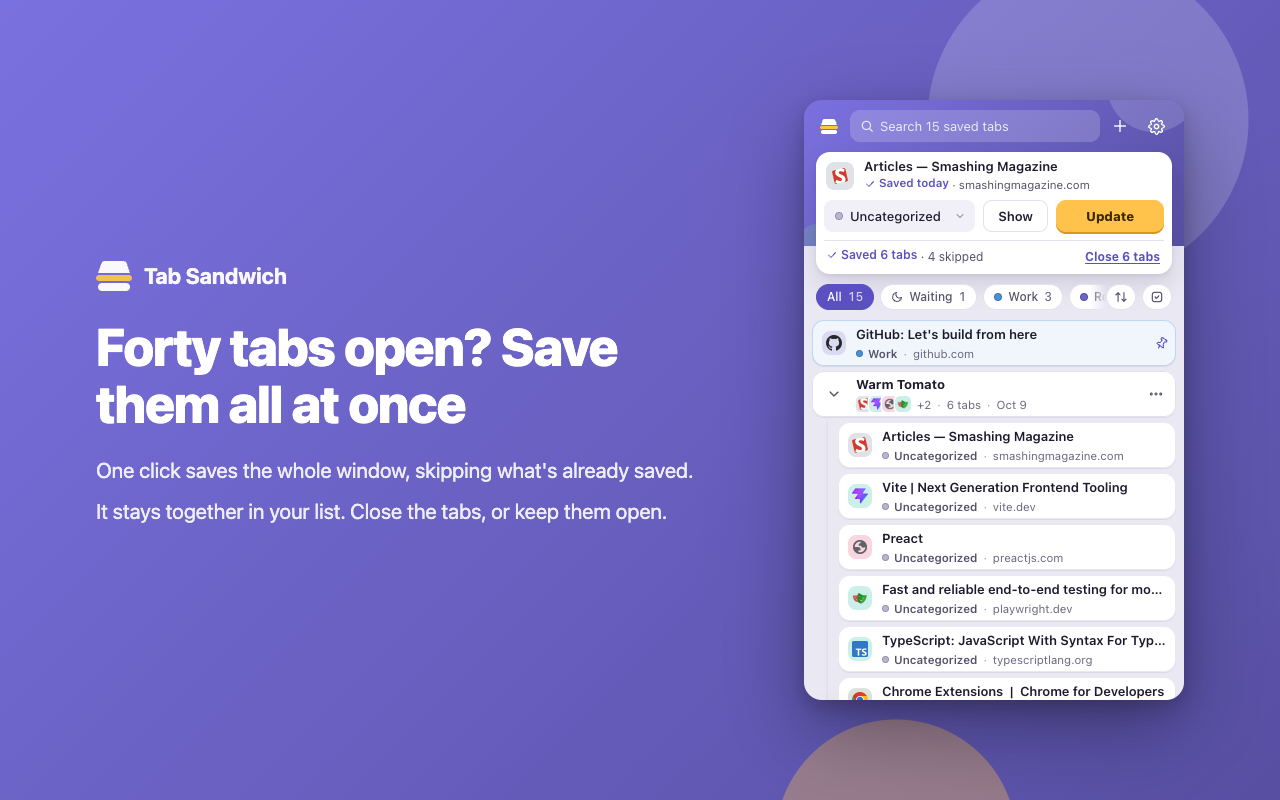
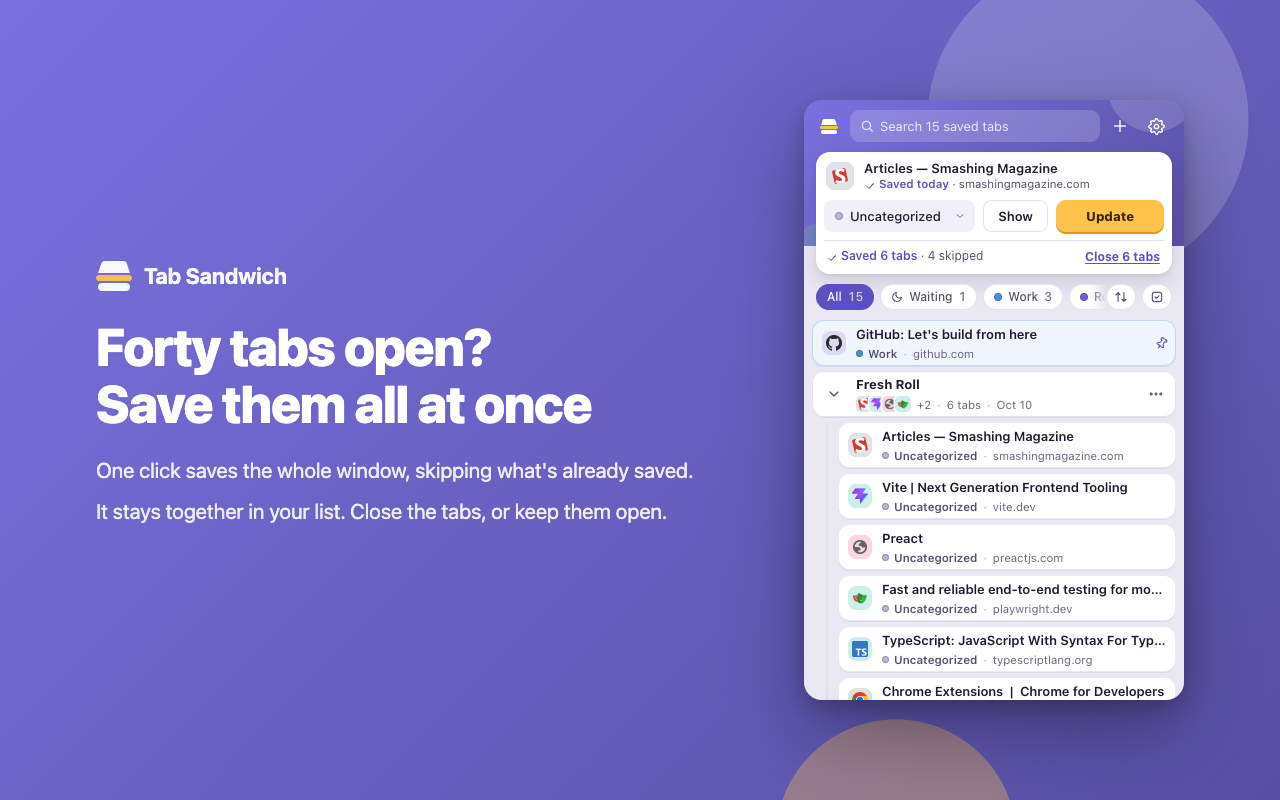
Release 3.3.1: Store screenshots, docs, version
The About screenshot showed no feature: screenshot 5 is now "Read it later,
or keep it for good" (the Waiting filter), and the privacy promise moves onto
screenshot 1. Headlines break into balanced lines. TESTING: section 22
(TC-279–282) and the cases whose behavior changed; PUBLISHING: 3.3.1 update
steps; README and CLAUDE.md follow. Version 3.3.1 (a patch: no What's new
note, nothing stored changes).

diff --git a/tests/store/store-assets.spec.ts b/tests/store/store-assets.spec.ts
@@ -2,7 +2,7 @@ import { readFileSync } from "node:fs";
 import type { Page } from "@playwright/test";
 import { test } from "../e2e/fixtures";
 import { expect } from "../e2e/fixtures";
-import { answerPermissionPrompt, openSettings, seedLibrary } from "../e2e/helpers";
+import { answerPermissionPrompt, seedLibrary } from "../e2e/helpers";
 
 const OUT = "store-assets";
 
@@ -16,6 +16,14 @@ const LIBRARY = [
     { title: "Lisbon – Travel guide at Wikivoyage", url: "https://en.wikivoyage.org/wiki/Lisbon", category: "Travel", daysAgo: 15, note: "for the May trip: day 2 is Belém" },
     { title: "BBC Food – Recipes", url: "https://www.bbc.co.uk/food", category: "Recipes", daysAgo: 2 },
     { title: "Stack Overflow", url: "https://stackoverflow.com/", daysAgo: 1 },
+];
+/** Added for the Read later shot: more reading that's been waiting, and a few tabs already archived. */
+const WAITING_EXTRAS = [
+    { title: "web.dev: Learn CSS", url: "https://web.dev/learn/css", category: "Reading", daysAgo: 34 },
+    { title: "CSS-Tricks: A Complete Guide to Grid", url: "https://css-tricks.com/snippets/css/complete-guide-grid/", category: "Reading", daysAgo: 18 },
+    { title: "A List Apart", url: "https://alistapart.com/", category: "Reading", daysAgo: 23 },
+    { title: "Google Flights", url: "https://www.google.com/travel/flights", category: "Travel", daysAgo: 40, archivedDaysAgo: 6 },
+    { title: "The Verge", url: "https://www.theverge.com/", category: "Reading", daysAgo: 30, archivedDaysAgo: 2 },
 ];
 const SETTINGS = {
     categories: ["Work", "Reading", "Travel", "Recipes"],
@@ -46,7 +54,7 @@ async function compose(page: Page, file: string, popupPng: Buffer, headline: str
     await page.setContent(`<!doctype html><html><body style="margin:0;width:1280px;height:800px;overflow:hidden;background:${BACKGROUNDS[theme]};font-family:-apple-system,BlinkMacSystemFont,'Segoe UI',system-ui,sans-serif;color:#fff;display:flex;align-items:center;gap:72px;padding:0 96px;box-sizing:border-box">
       <div style="flex:1;min-width:0">
         ${brand}
-        <h1 style="margin:0 0 24px;font-size:${withIcon ? 46 : 52}px;line-height:1.08;font-weight:800;letter-spacing:-.02em">${headline}</h1>
+        <h1 style="margin:0 0 24px;font-size:${withIcon ? 46 : 52}px;line-height:1.08;font-weight:800;letter-spacing:-.02em;text-wrap:balance">${headline}</h1>
         ${lines.map((l) => `<p style="margin:0 0 12px;font-size:21px;line-height:1.4;opacity:.88">${l}</p>`).join("")}
       </div>
       <img src="${img}" width="380" height="600" style="border-radius:18px;box-shadow:0 30px 80px rgba(0,0,0,.35),0 8px 20px rgba(0,0,0,.2);flex-shrink:0">
@@ -70,7 +78,7 @@ test("Chrome Web Store screenshots", async ({ context, popup }) => {
     test.skip(!process.env.TS_STORE_SCREENSHOTS, "Run through `pnpm store:screenshots`.");
     // Visit each sample site once, so Chrome's own icon cache has its icon (as it would for a real user).
     const visitor = await context.newPage();
-    for (const { url } of [...LIBRARY, { url: CURRENT_PAGE }, ...WINDOW_PAGES.map((url) => ({ url }))]) {
+    for (const { url } of [...LIBRARY, ...WAITING_EXTRAS, { url: CURRENT_PAGE }, ...WINDOW_PAGES.map((url) => ({ url }))]) {
         await visitor.goto(url, { waitUntil: "load", timeout: 30_000 }).catch(() => undefined);
         await visitor.waitForTimeout(800);
     }
@@ -78,9 +86,9 @@ test("Chrome Web Store screenshots", async ({ context, popup }) => {
 
     await popup.setViewportSize({ width: 380, height: 600 });
     const canvas = await context.newPage();
-    const shot = async (theme: "light" | "dark", prepare: () => Promise<void>) => {
+    const shot = async (theme: "light" | "dark", prepare: () => Promise<void>, library: typeof LIBRARY = LIBRARY) => {
         await popup.emulateMedia({ colorScheme: theme, reducedMotion: "reduce" });
-        await seedLibrary(popup, LIBRARY, SETTINGS);
+        await seedLibrary(popup, library, SETTINGS);
         const opened = context.waitForEvent("page");
         await popup.evaluate((u) => chrome.tabs.create({ url: u, active: true }), CURRENT_PAGE);
         await (await opened).waitForLoadState("load");
@@ -93,7 +101,8 @@ test("Chrome Web Store screenshots", async ({ context, popup }) => {
 
     await compose(canvas, "screenshot-1-main-list.png", await shot("light", async () => {}), "Save the tab you're on, in one click", [
         "Pick a category as you save — it suggests one.",
-        "Pin favorites, add a note, archive the rest."
+        "Pin favorites, add a note, archive the rest.",
+        "Stored only in your browser. No account, no tracking."
     ], "light", true);
 
     // A window full of tabs, saved in one click (Chrome's permission prompt answered "Allow"),
@@ -132,7 +141,13 @@ test("Chrome Web Store screenshots", async ({ context, popup }) => {
         await popup.getByRole("textbox", { name: "Search saved tabs" }).fill("news");
     }), "Find any saved tab in a keystroke", ["Search matches titles, sites, categories and notes.", "Sort, select many, and never touch the mouse."], "light");
 
-    await compose(canvas, "screenshot-5-private.png", await shot("dark", async () => {
-        await openSettings(popup, "About");
-    }), "Your tabs stay in your browser", ["No account, no server, no tracking.", "Back up to a file whenever you like."], "dark");
+    // Read later or keep: the Waiting filter (Reading ages, the other categories are kept), with
+    // the archive's pill beside it.
+    await compose(canvas, "screenshot-5-read-later.png", await shot("dark", async () => {
+        await popup.getByRole("button", { name: /^Waiting/ }).click();
+        await popup.mouse.move(0, 599);
+    }, [...LIBRARY, ...WAITING_EXTRAS] as typeof LIBRARY), "Read it later, or keep it for good", [
+        "Saved to read? It shows as Waiting after a week.",
+        "Everything else is kept. Done with a tab? Archive it — out of the way, never lost."
+    ], "dark");
 });

diff --git a/TESTING.md b/TESTING.md
@@ -26,7 +26,7 @@ Run on the build being released (`dist/`, or the release zip unpacked), about 10
 5. Shortcut display and the **Customize** link (TC-070, TC-071).
 6. Glance at every screen in both themes on your own computer (TC-193): the approved screenshots are Linux renders, so fonts on a Mac or Windows PC look slightly different — check nothing is cut off or crowded.
 7. Save all tabs in a real window: Chrome's permission prompt, allowed and (on another profile) denied (TC-233); saved windows in real Chrome: open all in a new window, drag tabs in, out and around (TC-245).
-8. Update in place from the previous release on the same profile (TC-256) — always, and especially when the release upgrades stored data (3.2 did: saved windows; 3.3 does: which categories age).
+8. Update in place from the previous release on the same profile (TC-256) — always, and especially when the release upgrades stored data (3.2 did: saved windows; 3.3 did: which categories age; 3.3.1 changes nothing stored).
 9. One-color icons (GitHub's, Chrome's gray globe) in dark mode on your real profile (TC-258).
 10. Anything new in this release that isn't marked **[auto]** yet.
 
@@ -147,12 +147,12 @@ Each case: **ID**, **Preconditions**, **Steps**, **Expected Result**. Priority: 
 **TC-034 — Removing an unused category (P1)** **[auto]**
 - Preconditions: a category with no tabs assigned to it.
 - Steps: Settings → **Categories** → hover the category → click its trash icon ("Remove …").
-- Expected: Category removed from the list, from all category selects, and from filter pills.
+- Expected: Removed at once, without asking: gone from the list, from all category selects, and from filter pills. The toast says "Removed …" with **Undo**. (Removing the category the main list is filtered by leaves the list on All.)
 
-**TC-035 — Removing an in-use category is blocked (P1)** **[auto]**
-- Preconditions: a category assigned to at least one tab.
-- Steps: Settings → **Categories** → hover the category → click its trash icon.
-- Expected: Not removed. A message floats just under that category ("In use — reassign its tabs first."), without moving the rows, and clears after ~3s. The trash icon is visually muted but remains clickable.
+**TC-035 — Removing an in-use category asks first; its tabs become Uncategorized (P1)** **[auto]**
+- Preconditions: a category assigned to at least one tab (and, for the last step, one archived tab too).
+- Steps: Settings → **Categories** → hover the category → click its trash icon. Press Escape. Click the trash icon again, then **Remove**. Then **Undo**.
+- Expected: The row turns into the question "Remove …?" with "Its tab becomes Uncategorized" (or "Its N tabs become…", "N tabs (M archived) become…"), **Remove** (focused) and ✕, at the row's own height: no row moves. Escape or ✕ puts the row back, focus on its trash icon. **Remove** removes it; its tabs, archived ones included, are now Uncategorized (stored with no category), and focus moves to the row that took its place. "Removed …" with **Undo**, which brings back the category in its place with its color and ☾, and its tabs in it (a tab you moved elsewhere in the meantime stays there).
 
 **TC-036 — "Uncategorized" cannot be removed or renamed (P1)**
 - Steps: Inspect the Settings category list.
@@ -166,9 +166,9 @@ Each case: **ID**, **Preconditions**, **Steps**, **Expected Result**. Priority: 
 - Steps: Save a tab without assigning a category.
 - Expected: Row background is plain white (no colored tint), with a light grey outline and dot; the "Uncategorized" pill has the same grey dot.
 
-**TC-039 — Category-in-use status stays fresh across navigation (P2)**
-- Steps: In Settings, attempt to remove an in-use category (see the blocked message) → click **Back** → reassign that tab's category away from it elsewhere → reopen Settings.
-- Expected: The category now shows as removable (no stale "in use" state), and the old message is gone.
+**TC-039 — Whether removing asks first stays fresh across navigation (P2)**
+- Steps: In Settings, click remove on an in-use category (it asks) → ✕ → click **Back** → move that tab to another category → reopen Settings → click remove again.
+- Expected: Now it's removed at once, without asking (the count is current, not left over from before).
 
 ---
 
@@ -257,10 +257,10 @@ Since 3.3 only tabs in the categories whose moon is lit in Settings › Categori
 
 **TC-063 — Defaults on a fresh install (P2)**
 - Steps: Clear storage, reopen popup, check Settings.
-- Expected: Settings › Categories: the days field under the list reads 7; the ☾ is lit on Reading and Uncategorized, dim on the others.
+- Expected: Settings › Categories: the days field above the list reads 7; the ☾ is lit on Reading and Uncategorized, dim on the others.
 
 **TC-064 — Changing the day threshold updates badges live (P2)** **[auto]**
-- Steps: In Settings › Categories, change the days field under the list to a smaller/larger value (press Enter or click away).
+- Steps: In Settings › Categories, change the days field above the list to a smaller/larger value (press Enter or click away).
 - Expected: Badges and the Waiting pill count update; a value outside 1–365 is corrected to the nearest limit.
 
 ---
@@ -309,7 +309,7 @@ Since 3.3 only tabs in the categories whose moon is lit in Settings › Categori
 - Expected: All operable via Tab/Shift+Tab/Enter/Space; no dead ends.
 
 **TC-091 — Full keyboard pass: filter/edit/delete (P1)**
-- Steps: Tab to a category pill and the Waiting pill and activate each; Tab into the list (it's one stop: the current row's title, then its pin, edit and delete icons) and activate each; use the list's own keys too (TC-220 – TC-226).
+- Steps: Tab to a category pill and the Waiting pill and activate each; Tab into the list (it's one stop: the current row's title, then its edit, archive and pin icons) and activate each; use the list's own keys too (TC-220 – TC-226).
 - Expected: All operable via keyboard; edit mode's Save/Cancel reachable and usable, Escape cancels.
 
 **TC-092 — Full keyboard pass: Settings (P1)**
@@ -781,7 +781,7 @@ Restore it afterward with `chrome.storage.local.set = __origSet;` before continu
 
 **TC-220 — Arrow keys move through the list (P1)** **[auto]**
 - Steps: In the search box press ↓; then ↓, ↑, Home, End. Then Tab.
-- Expected: ↓ from search lands on the first row; arrows, Home and End move between rows (stopping at the ends), with a purple outline on the current row and its Edit and Delete showing. The list is one Tab stop: Tab goes to the current row's Edit, its Delete, then on past the list.
+- Expected: ↓ from search lands on the first row; arrows, Home and End move between rows (stopping at the ends), with a purple outline on the current row and its Edit, Archive and Pin showing. The list is one Tab stop: Tab goes to the current row's Edit, its Archive, its Pin, then on past the list.
 
 **TC-221 — Enter opens, E edits (P1)** **[auto]**
 - Steps: On a row press Enter. Then E, Escape. Then E, change the title, Enter.
@@ -930,9 +930,9 @@ Restore it afterward with `chrome.storage.local.set = __origSet;` before continu
 - Expected: Space picks and unpicks the row (screen readers hear a checkbox, checked or not); arrows move as usual; E and Delete do nothing while selecting; → and ← still open and close windows.
 
 **TC-256 — Updating an existing install keeps everything (P1, release gate)**
-- Preconditions: The previous release (3.2.0's zip from GitHub Releases) loaded unpacked, with a few saved tabs in several categories (some saved 10+ days ago, in Reading and Uncategorized), a saved window, a custom category and color, a theme and a sort chosen, and the "What's new" note dismissed.
+- Preconditions: The previous release (for 3.3.1: 3.3.0's zip from GitHub Releases) loaded unpacked, with a few saved tabs in several categories (some saved 10+ days ago, in Reading and Uncategorized), a saved window, a custom category and color, a theme and a sort chosen, and the "What's new" note dismissed.
 - Steps: Replace that folder's contents with this release's `dist/` (or the release zip unpacked) and press **Reload** on the extension in `chrome://extensions`. Open the popup.
-- Expected: Every tab, window, category, color, theme and sort is as it was; "New in 3.3" shows once. Only Uncategorized's old tabs show as Waiting (Reading's no longer do: in Settings › Categories only Uncategorized's ☾ is lit — or none, if "Outdated tabs" was off). Export a backup, import it with **Replace all**, and Undo: all of it works. (Behind the scenes the stored data was upgraded to version 3, with a backup copy; the robot tests cover the upgrade itself (TC-184, TC-259), but not an existing install updating in place.)
+- Expected: Every tab, window, category, color, theme and sort is as it was. From 3.3.0 to 3.3.1: no "What's new" note (a patch release has none), every ☾ as it was. From 3.2.x: "New in 3.3" shows once. Only Uncategorized's old tabs show as Waiting (Reading's no longer do: in Settings › Categories only Uncategorized's ☾ is lit — or none, if "Outdated tabs" was off). Export a backup, import it with **Replace all**, and Undo: all of it works. (Behind the scenes the stored data was upgraded to version 3, with a backup copy; the robot tests cover the upgrade itself (TC-184, TC-259), but not an existing install updating in place.)
 
 ## 21. Stay Organized (v3.3)
 
@@ -949,7 +949,7 @@ Restore it afterward with `chrome.storage.local.set = __origSet;` before continu
 **TC-259 — Kept and waiting categories (P1)** **[auto]**
 - Preconditions: tabs saved 10–30 days ago in Work, Reading and Uncategorized; days set to 7.
 - Steps: Look at the list; open Settings › Categories; click Reading's ☾ (dims) and Work's (lights); hover each to read what it means; go Back.
-- Expected: At first only the Reading and Uncategorized tabs have the ☾ age badge and are counted in "Waiting (N)"; Work's 30-day-old tab has neither. After the change Work's tab is waiting and Reading's isn't. A lit moon's tooltip says "Its tabs show as waiting after 7 days", a dim one "Kept: its tabs never show as waiting". Uncategorized has its own last row with only the ☾. A category added later starts kept (☾ dim); renaming a category keeps its ☾. Updating from 3.2: every category is kept except Uncategorized (none at all if "Outdated tabs" was switched off), checked by the robot tests on stored 3.2 data.
+- Expected: At first only the Reading and Uncategorized tabs have the ☾ age badge and are counted in "Waiting (N)"; Work's 30-day-old tab has neither. After the change Work's tab is waiting and Reading's isn't. A lit moon's tooltip says "Its tabs show as waiting after 7 days", a dim one "Kept: its tabs never show as waiting". Uncategorized has its own last row with only the ☾. The days field, and under it the line explaining the moon, sit above the list, so a long list never hides them. A category added later starts kept (☾ dim); renaming a category keeps its ☾. Updating from 3.2: every category is kept except Uncategorized (none at all if "Outdated tabs" was switched off), checked by the robot tests on stored 3.2 data.
 
 **TC-260 — Pin a tab (P1)** **[auto]**
 - Steps: Hover a row (an old one in an aging category, e.g. Reading) and click its pin; pin a second tab; then click the first one's pin again.
@@ -981,8 +981,8 @@ Restore it afterward with `chrome.storage.local.set = __origSet;` before continu
 - Expected: All shows "Everything's in the archive" with **Show the archive** (not the first-run welcome); the filter row stays, with the Archived pill.
 
 **TC-267 — A category only the archive uses (P2)** **[auto]**
-- Steps: Settings › Categories: look at a category whose only tabs are archived, and click its remove button.
-- Expected: Its count says 0 tabs (counted as the list shows them); removing it is refused with "Tabs in your archive still use it — delete them there first."
+- Steps: Settings › Categories: look at a category whose only tabs are archived, and click its remove button; then **Remove**.
+- Expected: Its count says 0 tabs (counted as the list shows them), but removing it still asks: "Its archived tab becomes Uncategorized" (or "Its N archived tabs…"). After **Remove** those tabs stay in the archive, now Uncategorized.
 
 **TC-268 — An archived page on the save card and in the + form (P2)** **[auto]**
 - Steps: Open a page whose saved copy is archived; click **Restore** on the save card. Archive it again and click **Update** instead, then **Undo**. Then type its link into the + form and **Add**.
@@ -1029,3 +1029,21 @@ Restore it afterward with `chrome.storage.local.set = __origSet;` before continu
 **TC-278 — The + form suggests (P2)** **[auto]**
 - Steps: Open **+**, type a link from a site you've saved before, Tab out of the field; Add.
 - Expected: The picker moves to the suggestion, with the sparkle; Add saves it there. Pressing Enter straight from the URL field applies the suggestion too; a category picked by hand is never changed.
+
+## 22. Polish (v3.3.1)
+
+**TC-279 — A row's buttons: Pin last, and gone once the mouse leaves (P1)** **[auto]**
+- Steps: Hover a pinned row (its pin shows at the right end); click where the pin was. Pin another tab with the mouse, then move the pointer off the list. Then reach a row with ↓ from search.
+- Expected: Hovered, the row's buttons read Edit · Archive · Pin, so Unpin sits exactly where the pin mark was (never Archive). After a click with the mouse, the row stops showing its buttons as soon as the pointer leaves, though the button keeps focus. Reached with the keyboard, a row shows its buttons as before. The same goes for a category's buttons in Settings.
+
+**TC-280 — The Undo toast never covers the last row (P1)** **[auto]**
+- Steps: With a short list (no scrolling), archive a row; in Archived, delete one of two tabs for good; in Settings › Categories, remove a category.
+- Expected: While the toast shows, the popup grows by the toast's height (or, at its full height, the list gets that much shorter), so the last row stays visible above the toast; when the toast goes, the popup is back to its size. (Try it by hand too: the shrink when the toast leaves shouldn't feel jumpy.)
+
+**TC-281 — "Saved …" lines up with the site's name (P3)** **[auto]**
+- Steps: Open the popup on a page that's already saved; then on one whose saved copy is archived.
+- Expected: "✓ Saved N days ago" and "· site" sit on one baseline (approved screenshots: already-saved-light/dark); so do "In your archive" and the site (check by eye).
+
+**TC-282 — Editing a tab to Uncategorized (P2)** **[auto]**
+- Steps: Edit a tab in a category, pick Uncategorized, Save. Then open the popup on a new page from that site.
+- Expected: The tab shows as Uncategorized (stored with no category, like any other uncategorized tab), and it doesn't make Uncategorized a suggestion: the picker shows no sparkle on Uncategorized. Tabs edited this way before 3.3.1 don't count as suggestions either (logic-tested).

diff --git a/CLAUDE.md b/CLAUDE.md
@@ -28,7 +28,7 @@ src/
   types.ts              SavedTab, TabGroup (a saved window), Settings, ThemeChoice, SortOrder
   storage/
     chromeStorage.ts     chrome.storage.local wrappers, DEFAULT_SETTINGS, StorageWriteError on a rejected write;
-                            tabs and saved windows written together in one write when a change touches both;
+                            tabs and saved windows (or tabs and settings) written together in one write when a change touches both;
                             the last "What's new" version seen, since when opens are counted and the cleanup tip's
                             "Not now" date — kept apart from Settings so backups can't revive them
     migration.ts          one-time legacy-localStorage → chrome.storage.local migration
@@ -40,7 +40,8 @@ src/
     TabRepository.ts      add (one or many, optionally as a saved window)/edit/delete (one or many)/restore/reorder saved tabs,
                            move into or out of a saved window, move many into a category (each with its Undo), refresh from the page (+ its undo), pin/unpin, archive/restore (one or many), notes (tidyNote), counting opens (recordOpen), duplicate detection,
                            ids are crypto.randomUUID() (never derived from Date.now())
-    CategoryRepository.ts add/rename/remove/reorder categories, color palette, "Uncategorized" sentinel
+    CategoryRepository.ts add/rename/remove/reorder categories, color palette, "Uncategorized" sentinel; removing one
+                            releases its tabs (archived too) to Uncategorized, restoreCategory is its Undo
     GroupRepository.ts    saved windows: rename, open/closed, break apart (+ Undo); archiving one is archiving its tabs
     windowSave.ts          "Save all tabs in this window": which open tabs are new, what's skipped and why,
                             which tabs "Close" may close — pure
@@ -79,7 +80,8 @@ src/
     SiteIcon.tsx            a site's icon from Chrome's local cache, on a tinted first-letter tile;
                              a one-color icon that would vanish on the theme's tile is flipped (util/iconInk.ts)
     CategoryPicker.tsx      native <select> with the chosen category's color dot (and a sparkle while it's a suggestion)
-    Toast.tsx / toastStore.ts  the one bottom toast (Undo or error); a tiny store any screen can call
+    Toast.tsx / toastStore.ts  the one bottom toast (Undo or error); a tiny store any screen can call; ToastSpace makes
+                             room for it at the end of each screen while it shows, so it never covers the last row
     main/                   the main screen
       App.tsx               root of the whole popup ("/" and Ctrl/⌘+Z work anywhere on its main screen): loads the library, owns filter/search/highlight
                              and which screen shows; the main screen is hidden (not unmounted) while
@@ -103,7 +105,8 @@ src/
                              (count, Select all, Move to…, Archive, ✕; on Archived: Restore, Delete for good) at the same height, so the popup never resizes
       EmptyStates.tsx       the first-run welcome and tips, "no saved tabs match" (offering the archive when it has a match),
                              "everything's in the archive", and the "What's new" note
-      TabList.tsx / TabRow.tsx  the list: tinted, outlined rows; edit form; drag to reorder; entrance motion;
+      TabList.tsx / TabRow.tsx  the list: tinted, outlined rows (buttons Edit · Archive · Pin on hover or keyboard focus,
+                             Pin last so it takes the pin mark's place); edit form; drag to reorder; entrance motion;
                              the list's keys (arrows, Enter, E, P to pin, Delete, Alt+arrows to move, → ← for windows, Space to pick
                              while selecting, Escape), one Tab stop; rows become checkboxes while selecting
       GroupRow.tsx          a saved window's row (a small stack): opens to show its tabs; ⋯ menu; rename in place
@@ -114,9 +117,10 @@ src/
       SettingsScreen.tsx    header with Back, the tab bar, the panel; opens at least as tall as the main
                              screen so the popup window doesn't resize
       GeneralTab.tsx        Light/Dark/System, keyboard shortcut and the list's keys, storage meter
-      CategoriesTab.tsx     add, rename (click the name), move, remove, drag; the ☾ on each row (its tabs age
-                             and show as Waiting, or are kept), Uncategorized's own row (☾ only), the days
-                             field under the list; color strip and messages float over the row so nothing shifts
+      CategoriesTab.tsx     add, rename (click the name), move, remove (in use: asks in the row first; Undo from the toast),
+                             drag; the days field and the moon's legend above the list; the ☾ on each row (its tabs age
+                             and show as Waiting, or are kept), Uncategorized's own row (☾ only); color strip, question
+                             and messages stay within or float over the row so nothing shifts
       BackupTab.tsx         export, import with Merge / Replace all / Cancel, Undo from the toast
       AboutTab.tsx          version, local-only promise, privacy policy and source links
   vite-env.d.ts             types for non-code imports, e.g. *.module.css

diff --git a/PUBLISHING.md b/PUBLISHING.md
@@ -76,13 +76,13 @@ Read later, or keep: only the categories you choose ever nag you about old tabs.
 
 Upload all five from `store-assets/`, in this order (each exactly 1280×800, as the Store requires). Each shows the popup next to a headline on the brand's purple background; the first (main) one also carries the icon, large (`branding/icon.svg`):
 
-1. `screenshot-1-main-list.png` — "Save the tab you're on, in one click": the main list (a pinned tab, a note) and save card
+1. `screenshot-1-main-list.png` — "Save the tab you're on, in one click": the main list (a pinned tab, a note) and save card; its last line carries the privacy promise ("Stored only in your browser. No account, no tracking.")
 2. `screenshot-2-whole-window.png` — "Forty tabs open? Save them all at once": a window just saved, open as a saved window, with "Close N tabs" on offer
 3. `screenshot-3-dark-mode.png` — "Easy on the eyes, day or night": the list in dark mode
 4. `screenshot-4-search.png` — "Find any saved tab in a keystroke": search with highlighted matches
-5. `screenshot-5-private.png` — "Your tabs stay in your browser": Settings › About in dark mode
+5. `screenshot-5-read-later.png` — "Read it later, or keep it for good": the Waiting filter in dark mode, with "Archive all N waiting tabs"
 
-(Since 3.2 the categories screenshot is gone to make room for saving a whole window; the main list still shows categories.)
+(Since 3.2 the categories screenshot is gone to make room for saving a whole window; the main list still shows categories. Since 3.3.1 the About screenshot is gone too: it showed no feature, so read later / keep has its place, and the privacy promise moved onto the first screenshot.)
 
 They're rendered from the built extension, not edited by hand: `pnpm build && pnpm store:screenshots` (on a Mac, with network access — it visits each sample site once so the rows show real site icons). Re-run it whenever the look changes, and check the pictures before uploading: they're public.
 
@@ -133,6 +133,7 @@ Once the listing exists, publishing a new version doesn't repeat Steps 0/2 (acco
 2. Tag and push (`git tag -a vX.Y.Z -m "..."`, `git push origin vX.Y.Z`) — CI builds the new zip.
 3. In the Developer Dashboard, open the existing Tab Sandwich item → **Package** tab → upload the new zip.
 4. Update the description/screenshots only if something user-facing actually changed (3.2.0 did: paste the summary and detailed description above, including its "New in 3.2" paragraph, and replace all five screenshots — delete the old ones first, since two were renamed — re-rendered with `pnpm build && pnpm store:screenshots` after the version bump). The Store has no per-version notes field; the full notes go in the GitHub release.
+   - 3.3.1 keeps the description as it is but replaces all five screenshots (delete the old ones first: `screenshot-5-private.png` is gone, `screenshot-5-read-later.png` takes its place; screenshot 1 gains the privacy line, and every headline now breaks into balanced lines). No permission change, nothing new stored: **Privacy practices** stays as it is.
    - 3.3.0 changes the description (paste it again, with its "New in 3.3" paragraph) and all five screenshots (same names; re-render after the version bump). It adds no permission and sends nothing anywhere: the new data (pins, archive, notes, when a tab was last opened from Tab Sandwich) stays on the device like the rest, so the **Privacy practices** answers stay as they are; `PRIVACY.md` lists it.
    - 3.2.0 adds the optional `tabs` permission: in the **Privacy practices** tab, add its justification (Step 3 above). Being optional, it's asked for only when someone first saves a whole window, so updating doesn't disable the extension for existing users.
    - A new icon (3.1.0 has one) normally comes from the uploaded zip. If the **Store listing** tab also has its own 128×128 store icon field, upload `images/icon-128.png` there too, or the listing keeps the old one.

diff --git a/README.md b/README.md
@@ -17,7 +17,7 @@ Data is stored locally via `chrome.storage.local` — nothing leaves your browse
 - **Add a link manually** — for anything that isn't your active tab, via the **+** button in the header.
 - **Knows what you've saved** — on a page you've already saved, the popup says when ("Saved 12 days ago") instead of offering Save again. **Show** finds it in the list; **Update** refreshes the saved copy with the page's current title and address, today's date and the picked category (undoable). Adding an already-saved link by hand offers to open it.
 - **Search** — fuzzy-matches on title, domain, path and your note as you type, and finds every tab in a category or saved window by typing its name, with matched characters highlighted; combines with an active category or Waiting filter.
-- **Categories** — assign a category to each saved tab, filter the list by category, manage the category list (add/rename/remove/reorder) from Settings.
+- **Categories** — assign a category to each saved tab, filter the list by category, manage the category list (add/rename/remove/reorder) from Settings. Removing a category its tabs still use asks first, then makes them Uncategorized, with Undo.
 - **Color-coded categories** — each category gets a color from a preset palette (set per-category in Settings). Saved tabs are tinted and outlined in it and show the category name next to a matching dot, so the list scans by color without relying on color alone.
 - **Inline editing** — fix a title, URL, or category without deleting and re-adding.
 - **Archive** — a row's own button (or Delete) archives a tab, and the **Waiting** filter offers to archive every waiting tab at once: it leaves the list, its counts and search, but stays saved under the **Archived** pill, where it can be restored to exactly where it was (inside its saved window, too) or deleted for good. Both come with an 8-second Undo. A page that's in the archive says so on the save card (and in the + form), with **Restore**.
